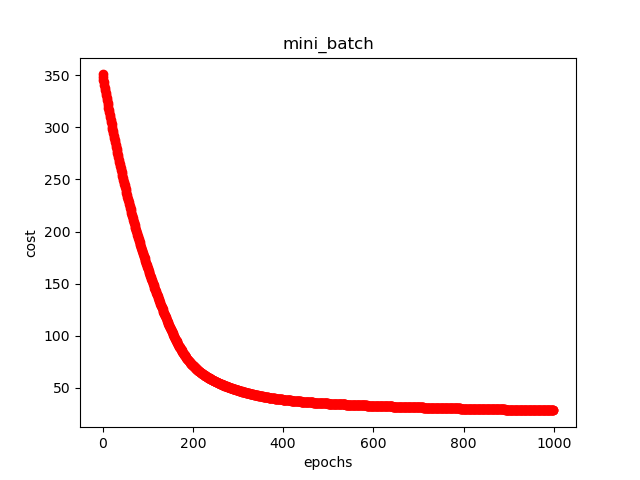
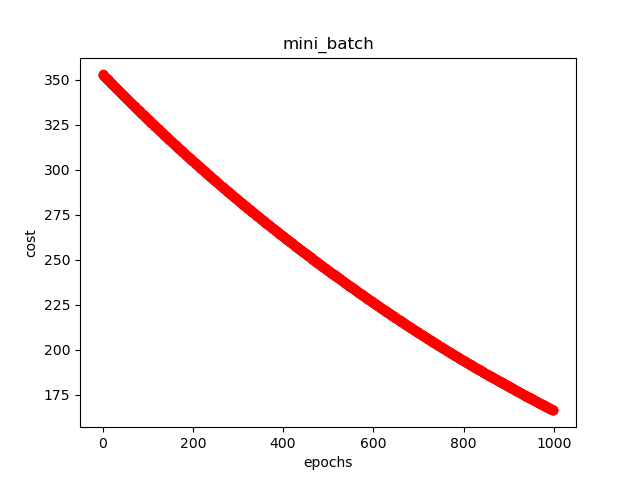
comparative change

diff --git a/partC/comparative.py b/partC/comparative.py
@@ -29,7 +29,9 @@ res = pd.DataFrame()
 
 epochs = 10000
 
-for i in range(3):
+for j in range(3):
+    i = 3-j-1
+    print(i)
     accuracy = 0
     precision = 0
     recall = 0
@@ -38,7 +40,7 @@ for i in range(3):
     y_train, y_test = preprocessor.train_test_split(y,train_size=0.67,random_state=13)
 
     X_train = preprocessor.normalize(X_train)
-    logistic = LogisticRegression(0.0001,epochs,0.7,type[i],'not-normalized')
+    logistic = LogisticRegression(0.01,epochs,0.7,type[i],'not-normalized')
     if i == 0:
         logistic.fit_batch(X_train,y_train)
     elif i == 1:

diff --git a/logistic/logisticRegression.py b/logistic/logisticRegression.py
@@ -83,7 +83,7 @@ class LogisticRegression:
                 X_j = X[j]
                 y_j = self.sigmoid(X_j)
                 # Gradient of Error function
-                grad += (y_j-t_j)*X_j
+                grad += (y_j-t_j)*X_j/10
             self.history.append((i, self.cost(X, y)))
         return
 

diff --git a/README.md b/README.md
@@ -70,9 +70,9 @@ After 10000 epochs (except for Fischer) following is the table of observations.
 | Perceptron (PM4) | 0.9129032258064516 | 0.9372268462822859 | 0.8501716001250819 |
 | Fischer (FLDM1)  | 0.950531914893617 | 0.952921328366989 | 0.914998930095255 |
 | Fischer (FLDM2)  | 0.950531914893617 | 0.952921328366989 | 0.914998930095255 |
-| Batch (LR1)     | 0.9095744680851063 | 0.9365079365079365| 0.8194444444444444 |
-| Stochastic (LR1) | 0.9202127659574468  | 0.9830508474576272 | 0.8055555555555556 |
-| Mini Batch (LR1) | 0.925531914893617 | 0.881578947368421 | 0.9305555555555556 |
+| Batch (LR1)     | 0.9680851063829787 | 1.0 | 0.9166666666666666 |
+| Stochastic (LR1) | 0.9680851063829787  | 0.9583333333333334 | 0.9583333333333334 |
+| Mini Batch (LR1) | 0.973404255319149 | 0.9855072463768116 | 0.9444444444444444 |
 | Batch (LR2)     | 0.973404255319149 | 1.0 | 0.9305555555555556 |
 | Stochastic (LR2) | 0.973404255319149 | 0.9855072463768116 | 0.9444444444444444 |
 | Mini Batch (LR2)| 0.9680851063829787 | 1.0 | 0.9166666666666666 |
